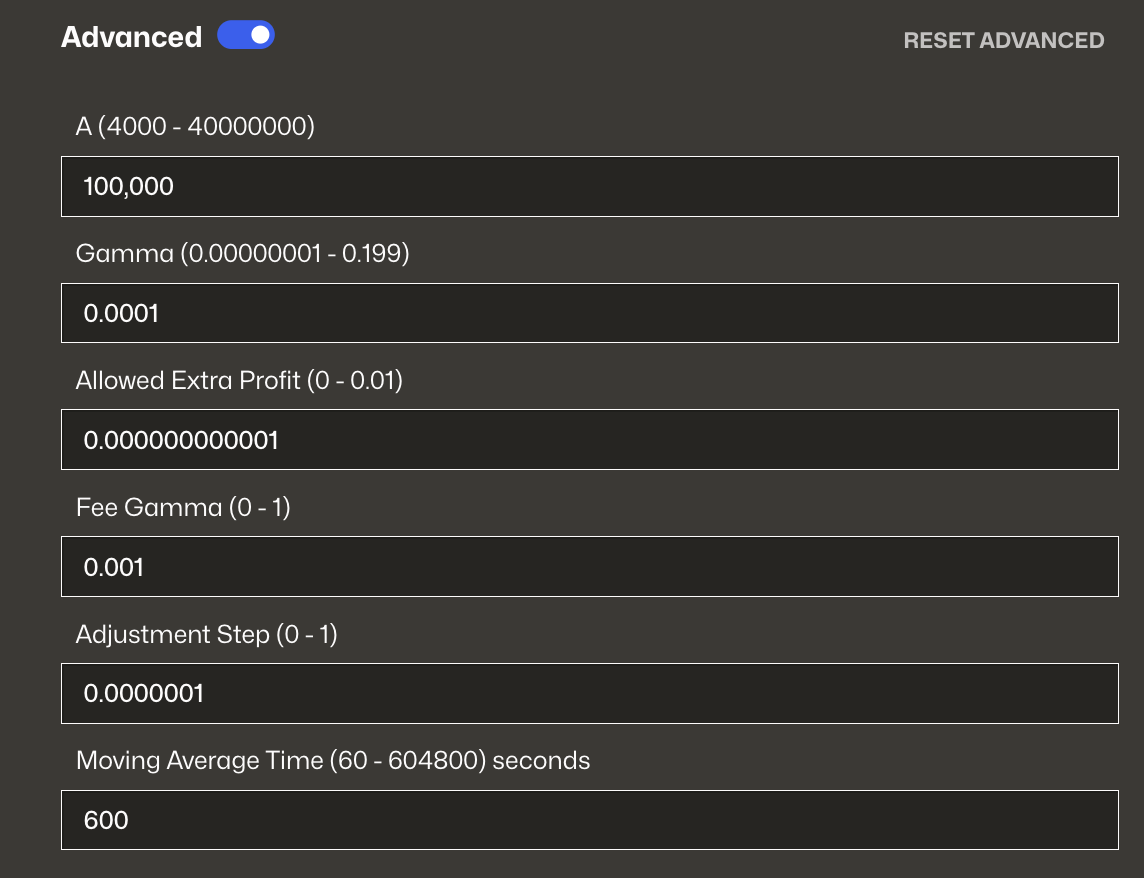
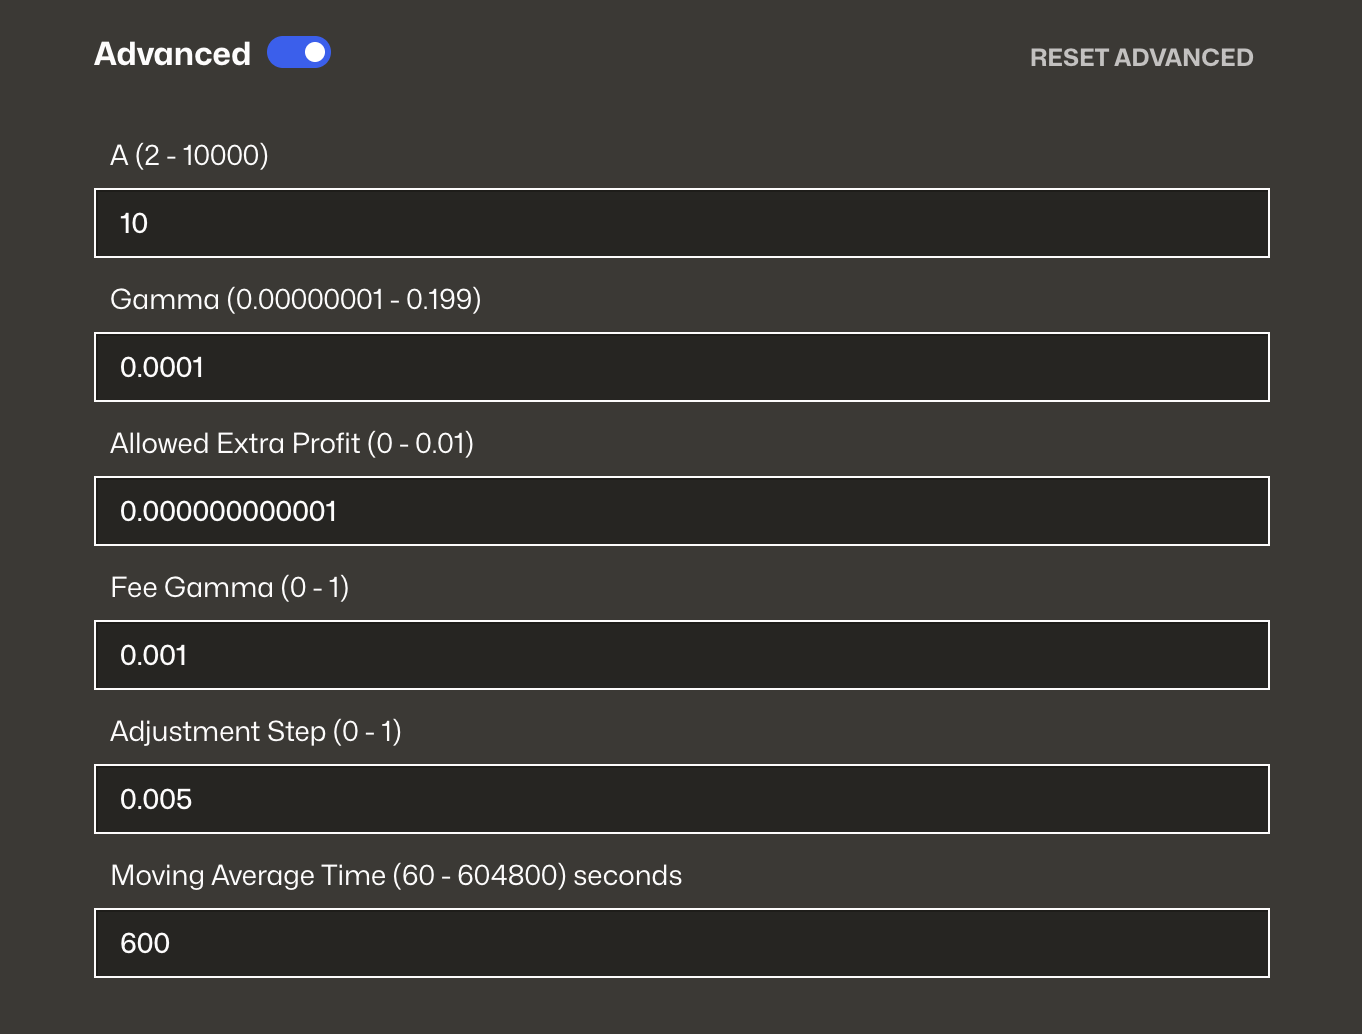
update FXSwap advanced parameters screenshots and remove A scaling note
UI no longer scales A by 10,000, so the docs claim that "A=10,000 in
FXSwap equals A=1 in Stableswap" is outdated. Refresh both light/dark
screenshots and prune the scaling note from the deploy guide,
understanding-fxswap, and pool-parameters tables. Also fix the
"FXSwap A" link in pool-parameters that was pointing at the Stableswap
page.

diff --git a/docs/protocol/pool/guides/deploy-fxswap.md b/docs/protocol/pool/guides/deploy-fxswap.md
@@ -135,7 +135,7 @@ To fine-tune the pool, enable the **Advanced** toggle. However, before experimen
 |----------|-------------|
 | **Mid Fee / Out Fee** | The base and maximum fee range, charged depending on pool imbalance. More here: [FXSwap Dynamic Fees](../understanding-fxswap.md#dynamic-fees).|
 | **Fee Gamma** | Controls how fee ramps up with imbalance. Lower gamma results in a sharper rise from Mid Fee to Out Fee as imbalance grows. More here: [FXSwap Dynamic Fees](../understanding-fxswap.md#dynamic-fees).|
-| **Amplification (A)** | Higher = flatter curve = tighter prices near balance. **Note:** A values are scaled up in FXSwap — an `A` of **10,000** in FXSwap is equivalent to an `A` of **1** in Stableswap. More here: [FXSwap Parameters](../understanding-fxswap.md#amplification-factor-a).|
+| **Amplification (A)** | Higher = flatter curve = tighter prices near balance. More here: [FXSwap Parameters](../understanding-fxswap.md#amplification-factor-a).|
 | **Gamma** | **Unused** in FXSwap logic. Retained solely for backward compatibility. |
 | **Allowed Extra Profit** | Sets profit-taking buffer for rebalancing. |
 | **Adjustment Step** | Step size for rebalancing operations. |

diff --git a/docs/protocol/pool/pool-parameters.md b/docs/protocol/pool/pool-parameters.md
@@ -48,7 +48,7 @@ FXSwap parameters inherit the same ones as the Cryptoswap parameters above. Addi
 
 | Name | Variable Name | Role |
 |------|:------:|-------------------|
-| Amplification coefficient | `A` | Controls liquidity concentration around the balanced price. Higher values reduce slippage near the peg, lower values spread liquidity more evenly. Same as Cryptoswap `A` (Stableswap `A` factored by 10,000).  More here: [FXSwap `A`](understanding-stableswap.md#amplification-factor-a) |
+| Amplification coefficient | `A` | Controls liquidity concentration around the balanced price. Higher values reduce slippage near the peg, lower values spread liquidity more evenly. Same meaning as Stableswap `A`. More here: [FXSwap `A`](understanding-fxswap.md#amplification-factor-a) |
 | EMA half-life | `ma_time` | Time constant (in seconds) of the exponential moving average that tracks the market price |
 | Allowed extra profit | `allowed_extra_profit` | Minimum theoretical arbitrage gain (in bp) before the contract updates its internal price scale, preventing micro-adjustments |
 | Adjustment step | `adjustment_step` | The minimum rebalancing step (min movement of `price_scale`) |

diff --git a/docs/protocol/pool/understanding-fxswap.md b/docs/protocol/pool/understanding-fxswap.md
@@ -144,10 +144,7 @@ Yes, but be aware that FXSwap pools use the simpler Stableswap invariant (no `ga
 
 ### Amplification Factor (`A`)
 
-The amplification factor in FXSwap pools works similarly to the [amplification factor in Stableswap pools](understanding-stableswap.md#amplification-factor-a), with two distinctions:
-
-1.  **Center Price:** The liquidity centers around a variable called `price_scale` rather than a fixed 1.0 peg.
-2.  **Precision:** `A` values are scaled up. An `A` of **10,000** in FXSwap is equivalent to an `A` of **1** in Stableswap. This provides pool creators with 4 decimal places of precision for the liquidity curve.
+The amplification factor in FXSwap pools works similarly to the [amplification factor in Stableswap pools](understanding-stableswap.md#amplification-factor-a), with one key distinction: the liquidity centers around a variable called `price_scale` rather than a fixed 1.0 peg.
 
 Let's have a look at what this means in terms of balance in the pools and prices:
 
